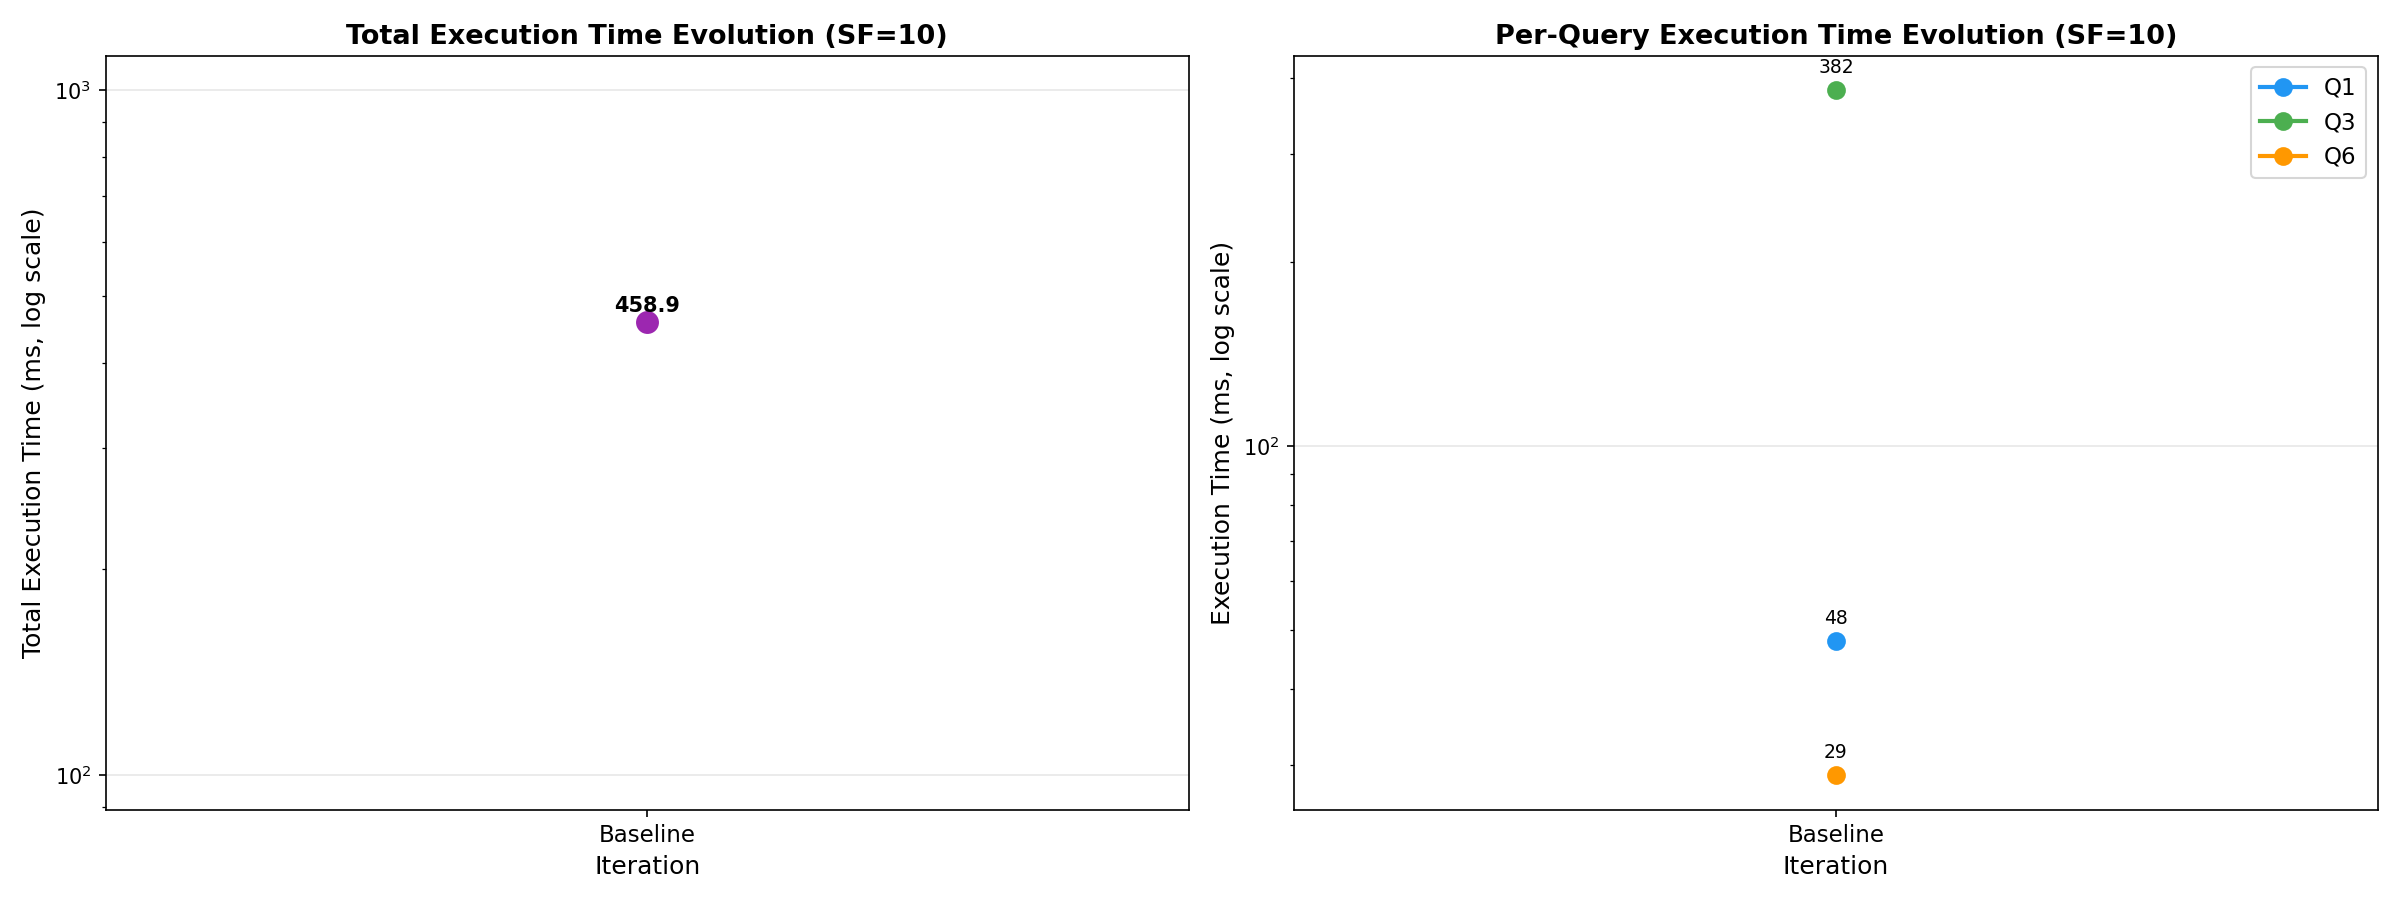
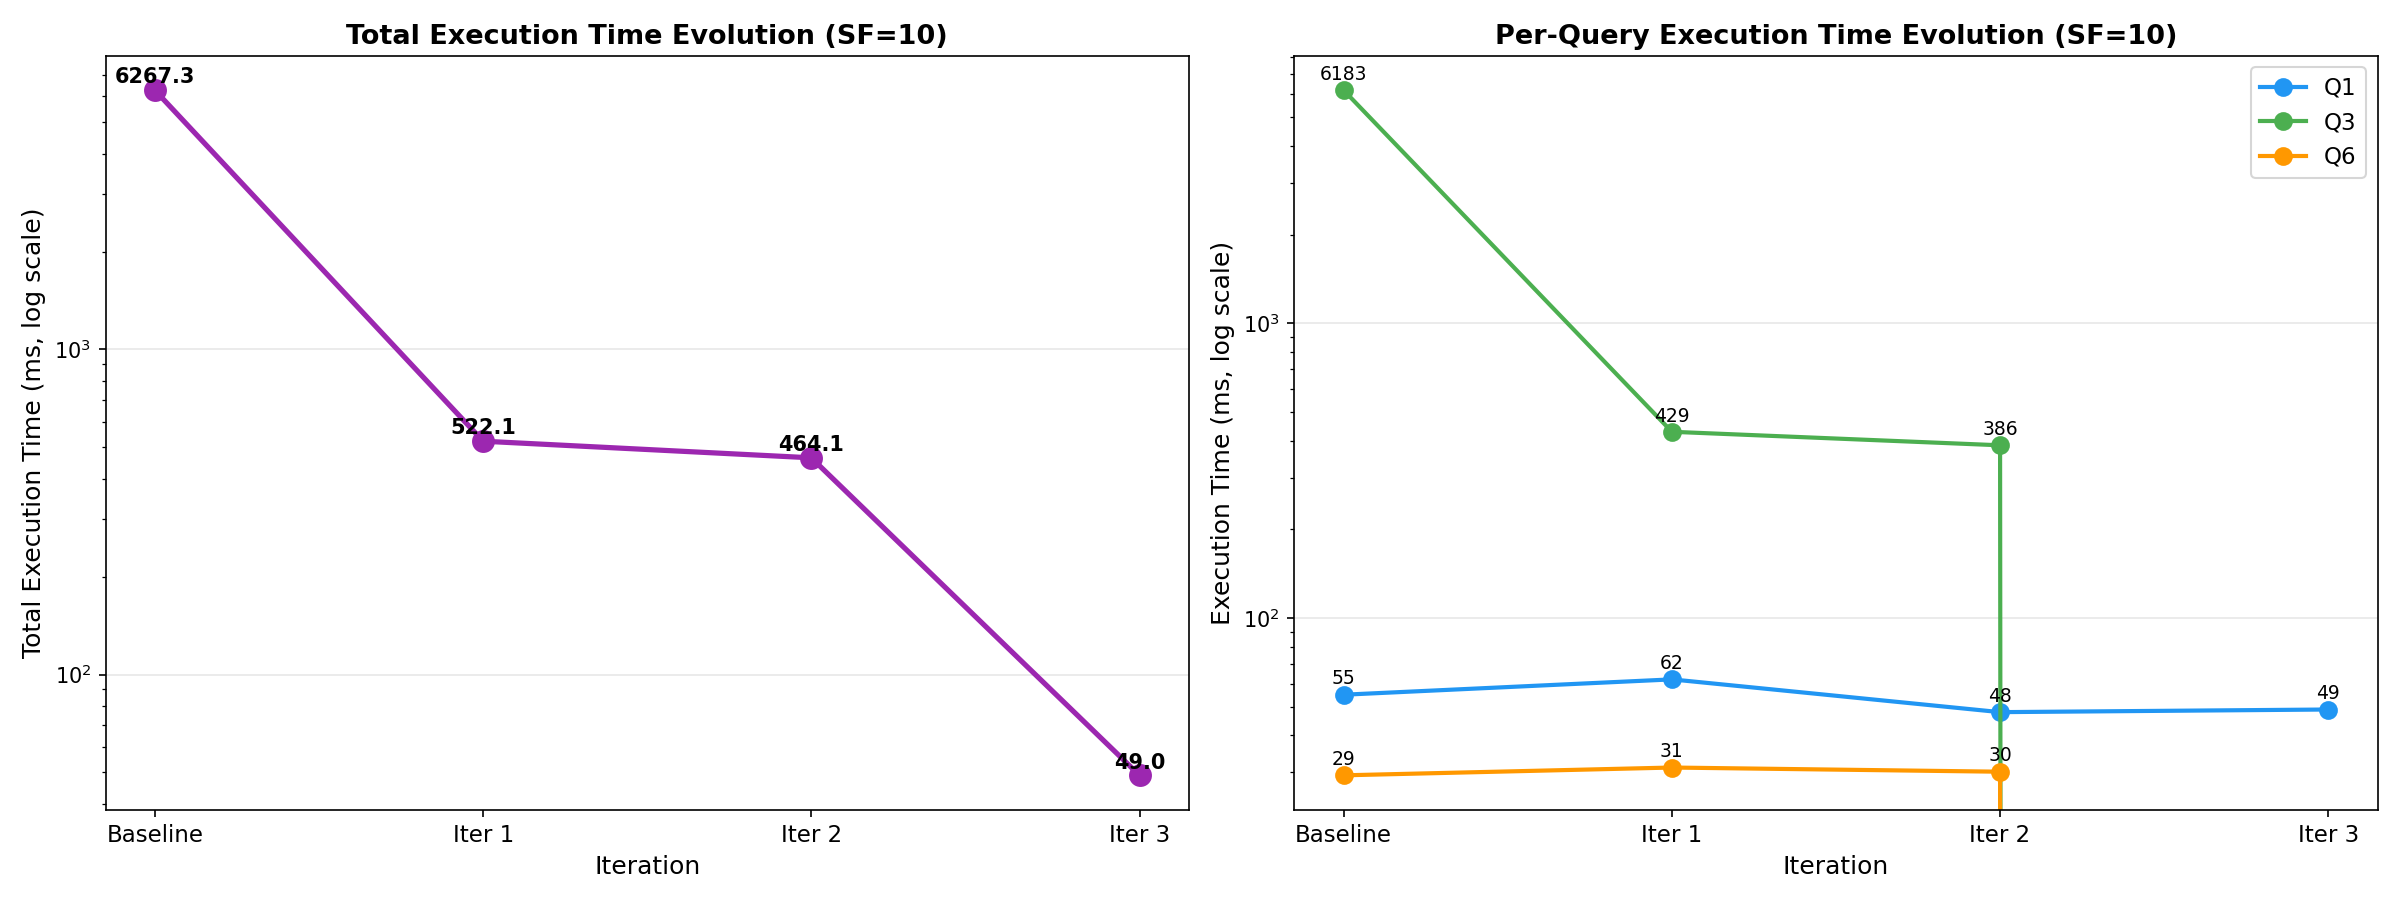
update figures

diff --git a/benchmarks/tpc-h/benchmark_temp.py b/benchmarks/tpc-h/benchmark_temp.py
@@ -444,6 +444,117 @@ def gendb_benchmark_combined(main_bin: Path, gendb_dir: Path, num_runs: int) -> 
     return {q: times for q, times in results.items() if times}
 
 
+def gendb_benchmark_from_json(run_dir: Path) -> dict:
+    """Read GenDB benchmark results from evaluation JSON files.
+
+    Reads timing data from queries/QN/iter_N_evaluation.json files.
+
+    Returns:
+    {
+      "baseline": {"Q1": [times], "Q3": [times], ...},
+      "iterations": [
+        {"iteration": 1, "Q1": [times], ...},
+        ...
+      ],
+      "best": {"Q1": [times], ...}
+    }
+    """
+    history = {"baseline": {}, "iterations": [], "best": {}}
+    queries_dir = run_dir / "queries"
+
+    if not queries_dir.exists():
+        print("  No queries directory found.")
+        return history
+
+    # Collect all available queries and iterations
+    available_queries = []
+    for qdir in sorted(queries_dir.iterdir()):
+        if qdir.is_dir() and qdir.name.startswith("Q"):
+            available_queries.append(qdir.name)
+
+    if not available_queries:
+        print("  No query directories found.")
+        return history
+
+    print(f"  Found query directories: {', '.join(available_queries)}")
+
+    # Collect all iteration numbers
+    all_iter_nums = set()
+    for qname in available_queries:
+        qdir = queries_dir / qname
+        for json_file in qdir.glob("iter_*_evaluation.json"):
+            match = re.match(r"iter_(\d+)_evaluation\.json", json_file.name)
+            if match:
+                all_iter_nums.add(int(match.group(1)))
+
+    all_iter_nums = sorted(all_iter_nums)
+    if not all_iter_nums:
+        print("  No iteration evaluation files found.")
+        return history
+
+    print(f"  Found iterations: {all_iter_nums}")
+
+    # Read baseline (iter_0)
+    print("  Reading baseline (iteration 0)...")
+    for qname in sorted(available_queries):
+        json_path = queries_dir / qname / "iter_0_evaluation.json"
+        if json_path.exists():
+            try:
+                with open(json_path, "r") as f:
+                    data = json.load(f)
+                    timing_ms = data.get("evaluation", {}).get("query_results", {}).get(qname, {}).get("timing_ms")
+                    if timing_ms is not None:
+                        # Store as list with single value (mimicking num_runs=1)
+                        history["baseline"][qname] = [timing_ms]
+                        print(f"    Baseline {qname}: {timing_ms:.1f} ms")
+            except Exception as e:
+                print(f"    Warning: Could not read {json_path}: {e}")
+
+    # Read iterations (iter_1, iter_2, ...)
+    for iter_num in all_iter_nums:
+        if iter_num == 0:
+            continue  # Skip baseline, already processed
+        print(f"  Reading iteration {iter_num}...")
+        iter_entry = {"iteration": iter_num}
+        for qname in sorted(available_queries):
+            json_path = queries_dir / qname / f"iter_{iter_num}_evaluation.json"
+            if json_path.exists():
+                try:
+                    with open(json_path, "r") as f:
+                        data = json.load(f)
+                        timing_ms = data.get("evaluation", {}).get("query_results", {}).get(qname, {}).get("timing_ms")
+                        if timing_ms is not None:
+                            iter_entry[qname] = [timing_ms]
+                            print(f"    Iteration {iter_num} {qname}: {timing_ms:.1f} ms")
+                except Exception as e:
+                    print(f"    Warning: Could not read {json_path}: {e}")
+        history["iterations"].append(iter_entry)
+
+    # Best per-query: cherry-pick across baseline and iterations
+    all_candidates = [history["baseline"]] + history["iterations"]
+    for qname in available_queries:
+        best_avg = None
+        best_times_list = None
+        for result in all_candidates:
+            if qname in result and isinstance(result[qname], list) and len(result[qname]) > 0:
+                avg = sum(result[qname]) / len(result[qname])
+                if best_avg is None or avg < best_avg:
+                    best_avg = avg
+                    best_times_list = result[qname]
+        if best_times_list:
+            history["best"][qname] = best_times_list
+
+    # Summary of best results
+    if history["best"]:
+        print(f"\n  Best per-query performance (cherry-picked across iterations):")
+        for qname in sorted(history["best"].keys()):
+            times = history["best"][qname]
+            avg_time = sum(times) / len(times) if times else 0
+            print(f"    {qname}: {avg_time:.1f} ms")
+
+    return history
+
+
 def gendb_benchmark_all(run_dir: Path, gendb_dir: Path, num_runs: int) -> dict:
     """Run all GenDB per-query binaries (baseline + iterations).
 
@@ -742,25 +853,10 @@ def main():
     # --- GenDB ---
     if args.gendb_run and args.gendb_run.exists():
         print(f"=== GenDB Benchmark ({args.gendb_run}) ===")
-        if not args.gendb_dir.exists():
-            print(f"  Error: GenDB storage not found at {args.gendb_dir}")
-            print(f"  Run ingestion first or provide --gendb-dir path.")
-        else:
-            print(f"  (Using existing storage — no re-ingestion)")
-            gendb_history = gendb_benchmark_all(args.gendb_run, args.gendb_dir, args.runs)
-            if gendb_history and gendb_history["best"]:
-                all_results["GenDB"] = gendb_history["best"]
-                print(f"\n  Best per-query performance (cherry-picked across iterations):")
-                for qname in QUERIES:
-                    if qname in gendb_history["best"]:
-                        times = gendb_history['best'][qname]
-                        avg_time = sum(times) / len(times) if times else 0
-                        print(f"    {qname}: {avg_time:.1f} ms (avg)")
-                total_best = sum(
-                    sum(gendb_history["best"].get(q, [0])) / max(len(gendb_history["best"].get(q, [1])), 1)
-                    for q in QUERIES
-                )
-                print(f"    Total (best per-query): {total_best:.1f} ms")
+        print(f"  Reading results from evaluation JSON files...")
+        gendb_history = gendb_benchmark_from_json(args.gendb_run)
+        if gendb_history and gendb_history["best"]:
+            all_results["GenDB"] = gendb_history["best"]
     else:
         print("=== GenDB: SKIPPED (run directory not found) ===")
 
